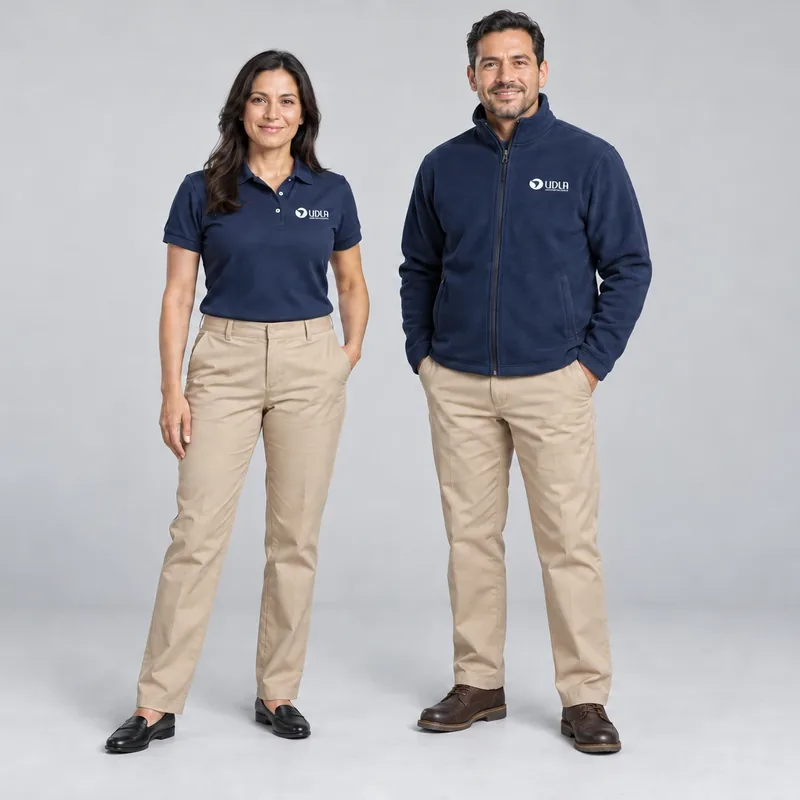
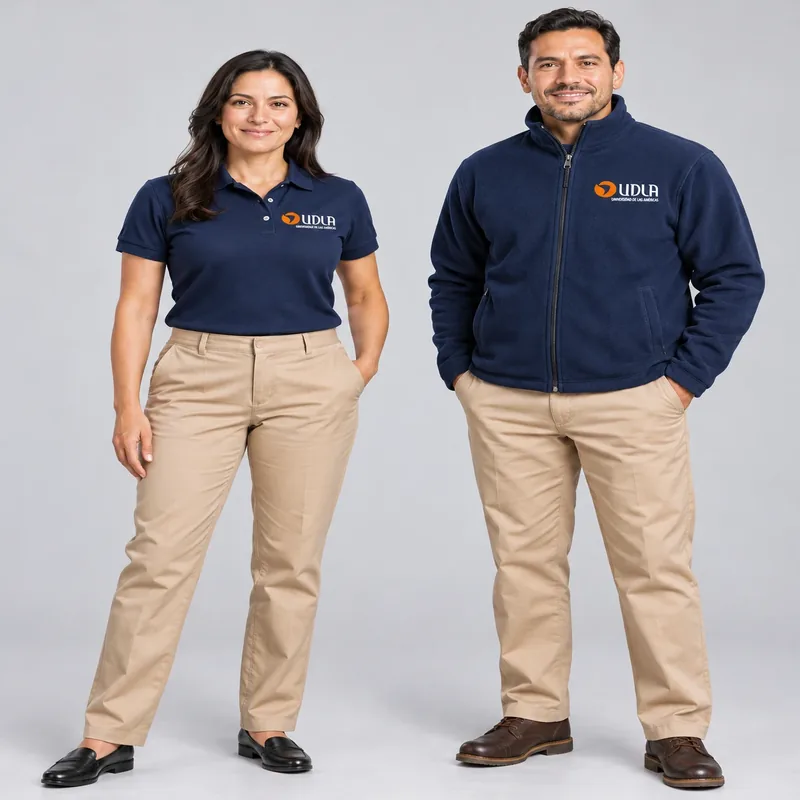
Ajustes según feedback del cliente (hoja 09-11)
- Cifras cerradas: 30+ clientes y 25+ marcas (Inicio y Nosotros)
- Nuevas fotos UDLA con el logo a color en portada y línea Universidades
- Nombre de marca como Kadöl / KADÖL en textos, títulos y metadatos
- Agrega Chanel al carrusel de clientes
- Logo de Kadöl y nombre como marca de agua de fondo en el footer

diff --git a/index.html b/index.html
@@ -3,13 +3,13 @@
 <head>
   <meta charset="UTF-8">
   <meta name="viewport" content="width=device-width, initial-scale=1">
-  <title>Kadol | Uniformes, ropa de trabajo y EPP para empresas e instituciones</title>
+  <title>Kadöl | Uniformes, ropa de trabajo y EPP para empresas e instituciones</title>
   <meta name="description" content="Vestimos y equipamos a empresas públicas y privadas, instituciones, colegios, universidades y centros de salud. Comparamos proveedores y te entregamos una propuesta con precio y plazo validados.">
   <link rel="canonical" href="https://kadoluniformes.cl/">
   <meta property="og:type" content="website">
   <meta property="og:locale" content="es_CL">
-  <meta property="og:site_name" content="Kadol">
-  <meta property="og:title" content="Kadol | Uniformes, ropa de trabajo y EPP para empresas e instituciones">
+  <meta property="og:site_name" content="Kadöl">
+  <meta property="og:title" content="Kadöl | Uniformes, ropa de trabajo y EPP para empresas e instituciones">
   <meta property="og:description" content="Vestimos y equipamos a empresas públicas y privadas, instituciones, colegios, universidades y centros de salud. Comparamos proveedores y te entregamos una propuesta con precio y plazo validados.">
   <meta property="og:url" content="https://kadoluniformes.cl/">
   <meta property="og:image" content="https://kadoluniformes.cl/assets/img/og-kadol.jpg">
@@ -20,14 +20,14 @@
   <link href="https://fonts.googleapis.com/css2?family=Archivo:wdth,wght@100..125,400..800&amp;display=swap" rel="stylesheet">
   <link rel="stylesheet" href="assets/css/site.css">
   <script type="application/ld+json">
-  {"@context":"https://schema.org","@type":"Organization","name":"Kadol SpA","url":"https://kadoluniformes.cl/","email":"contacto@kadol.cl","sameAs":["https://www.instagram.com/kadol_spa/"],"foundingDate":"2019","address":{"@type":"PostalAddress","addressLocality":"Santiago","addressCountry":"CL"},"description":"Uniformes corporativos, ropa de trabajo, calzado y EPP para empresas e instituciones en Chile."}
+  {"@context":"https://schema.org","@type":"Organization","name":"Kadöl SpA","alternateName":"Kadol","url":"https://kadoluniformes.cl/","email":"contacto@kadol.cl","sameAs":["https://www.instagram.com/kadol_spa/"],"foundingDate":"2019","address":{"@type":"PostalAddress","addressLocality":"Santiago","addressCountry":"CL"},"description":"Uniformes corporativos, ropa de trabajo, calzado y EPP para empresas e instituciones en Chile."}
   </script>
 </head>
 <body>
   <header class="site-header">
     <div class="wrap">
-      <a href="./" class="brand" aria-label="Kadol, inicio">
-        <span class="wordmark">KADOL</span>
+      <a href="./" class="brand" aria-label="Kadöl, inicio">
+        <span class="wordmark">KADÖL</span>
         <span class="brand-desc">Uniformes, ropa de trabajo y EPP<br>para empresas e instituciones</span>
       </a>
       <nav class="nav" aria-label="Principal">
@@ -59,8 +59,8 @@
         <ul class="facts">
           <li><strong>2019</strong><span>Año de fundación</span></li>
           <li><strong>30+</strong><span>Años de oficio en el rubro</span></li>
-          <li><strong>32</strong><span>Empresas e instituciones clientes</span></li>
-          <li><strong>23</strong><span>Marcas con las que trabajamos</span></li>
+          <li><strong>30+</strong><span>Empresas e instituciones clientes</span></li>
+          <li><strong>25+</strong><span>Marcas con las que trabajamos</span></li>
         </ul>
       </div>
     </section>
@@ -76,10 +76,10 @@
             <div class="marquee-set" aria-hidden="true"><div class="logo-card"><img src="assets/logos-clientes/pa.png" alt="" decoding="async"></div><div class="logo-card"><img src="assets/logos-clientes/autopista-central.png" alt="" decoding="async"></div><div class="logo-card"><img src="assets/logos-clientes/santa-ema.png" alt="" decoding="async"></div><div class="logo-card"><img src="assets/logos-clientes/aiep.png" alt="" decoding="async"></div><div class="logo-card"><img src="assets/logos-clientes/acer.png" alt="" decoding="async"></div><div class="logo-card"><img src="assets/logos-clientes/abastible.png" alt="" decoding="async"></div><div class="logo-card"><img src="assets/logos-clientes/asus.png" alt="" decoding="async"></div><div class="logo-card"><img src="assets/logos-clientes/autokas.png" alt="" decoding="async"></div><div class="logo-card"><img src="assets/logos-clientes/cinepolis.png" alt="" decoding="async"></div><div class="logo-card"><img src="assets/logos-clientes/cruz-andes.png" alt="" decoding="async"></div><div class="logo-card"><img src="assets/logos-clientes/fch.png" alt="" decoding="async"></div><div class="logo-card"><img src="assets/logos-clientes/henkel.png" alt="" decoding="async"></div><div class="logo-card"><img src="assets/logos-clientes/plazalyon.png" alt="" decoding="async"></div><div class="logo-card"><img src="assets/logos-clientes/rindegastos.png" alt="" decoding="async"></div><div class="logo-card"><img src="assets/logos-clientes/sofruco.png" alt="" decoding="async"></div><div class="logo-card"><img src="assets/logos-clientes/vinalaros.png" alt="" decoding="async"></div></div>
           </div>
         </div>
-        <div class="marquee-row" style="--dur:77.0s">
+        <div class="marquee-row" style="--dur:81.8s">
           <div class="marquee-track">
-            <div class="marquee-set"><div class="logo-card"><img src="assets/logos-clientes/wintec.png" alt="Wintec" decoding="async"></div><div class="logo-card"><img src="assets/logos-clientes/viaschile.png" alt="Vías Chile" decoding="async"></div><div class="logo-card"><img src="assets/logos-clientes/autopista-aconcagua.png" alt="Autopista Nueva Aconcagua" decoding="async"></div><div class="logo-card"><img src="assets/logos-clientes/udla.png" alt="UDLA" decoding="async"></div><div class="logo-card"><img src="assets/logos-clientes/unab.png" alt="UNAB" decoding="async"></div><div class="logo-card"><img src="assets/logos-clientes/kapsch.png" alt="Kapsch" decoding="async"></div><div class="logo-card"><img src="assets/logos-clientes/colegio-abadia.png" alt="Colegio La Abadía" decoding="async"></div><div class="logo-card"><img src="assets/logos-clientes/28.png" alt="Altimec" decoding="async"></div><div class="logo-card"><img src="assets/logos-clientes/bekron.png" alt="Bekron" decoding="async"></div><div class="logo-card"><img src="assets/logos-clientes/citron.png" alt="Citroën" decoding="async"></div><div class="logo-card"><img src="assets/logos-clientes/diazol.png" alt="Diazol" decoding="async"></div><div class="logo-card"><img src="assets/logos-clientes/fundacionpaula.png" alt="Fundación Paula" decoding="async"></div><div class="logo-card"><img src="assets/logos-clientes/netgroup.png" alt="Netgroup" decoding="async"></div><div class="logo-card"><img src="assets/logos-clientes/portia.png" alt="Portia" decoding="async"></div><div class="logo-card"><img src="assets/logos-clientes/shopic.png" alt="Shopic" decoding="async"></div><div class="logo-card"><img src="assets/logos-clientes/uvm.png" alt="UVM" decoding="async"></div></div>
-            <div class="marquee-set" aria-hidden="true"><div class="logo-card"><img src="assets/logos-clientes/wintec.png" alt="" decoding="async"></div><div class="logo-card"><img src="assets/logos-clientes/viaschile.png" alt="" decoding="async"></div><div class="logo-card"><img src="assets/logos-clientes/autopista-aconcagua.png" alt="" decoding="async"></div><div class="logo-card"><img src="assets/logos-clientes/udla.png" alt="" decoding="async"></div><div class="logo-card"><img src="assets/logos-clientes/unab.png" alt="" decoding="async"></div><div class="logo-card"><img src="assets/logos-clientes/kapsch.png" alt="" decoding="async"></div><div class="logo-card"><img src="assets/logos-clientes/colegio-abadia.png" alt="" decoding="async"></div><div class="logo-card"><img src="assets/logos-clientes/28.png" alt="" decoding="async"></div><div class="logo-card"><img src="assets/logos-clientes/bekron.png" alt="" decoding="async"></div><div class="logo-card"><img src="assets/logos-clientes/citron.png" alt="" decoding="async"></div><div class="logo-card"><img src="assets/logos-clientes/diazol.png" alt="" decoding="async"></div><div class="logo-card"><img src="assets/logos-clientes/fundacionpaula.png" alt="" decoding="async"></div><div class="logo-card"><img src="assets/logos-clientes/netgroup.png" alt="" decoding="async"></div><div class="logo-card"><img src="assets/logos-clientes/portia.png" alt="" decoding="async"></div><div class="logo-card"><img src="assets/logos-clientes/shopic.png" alt="" decoding="async"></div><div class="logo-card"><img src="assets/logos-clientes/uvm.png" alt="" decoding="async"></div></div>
+            <div class="marquee-set"><div class="logo-card"><img src="assets/logos-clientes/wintec.png" alt="Wintec" decoding="async"></div><div class="logo-card"><img src="assets/logos-clientes/viaschile.png" alt="Vías Chile" decoding="async"></div><div class="logo-card"><img src="assets/logos-clientes/autopista-aconcagua.png" alt="Autopista Nueva Aconcagua" decoding="async"></div><div class="logo-card"><img src="assets/logos-clientes/udla.png" alt="UDLA" decoding="async"></div><div class="logo-card"><img src="assets/logos-clientes/unab.png" alt="UNAB" decoding="async"></div><div class="logo-card"><img src="assets/logos-clientes/kapsch.png" alt="Kapsch" decoding="async"></div><div class="logo-card"><img src="assets/logos-clientes/colegio-abadia.png" alt="Colegio La Abadía" decoding="async"></div><div class="logo-card"><img src="assets/logos-clientes/28.png" alt="Altimec" decoding="async"></div><div class="logo-card"><img src="assets/logos-clientes/bekron.png" alt="Bekron" decoding="async"></div><div class="logo-card"><img src="assets/logos-clientes/citron.png" alt="Citroën" decoding="async"></div><div class="logo-card"><img src="assets/logos-clientes/diazol.png" alt="Diazol" decoding="async"></div><div class="logo-card"><img src="assets/logos-clientes/fundacionpaula.png" alt="Fundación Paula" decoding="async"></div><div class="logo-card"><img src="assets/logos-clientes/netgroup.png" alt="Netgroup" decoding="async"></div><div class="logo-card"><img src="assets/logos-clientes/portia.png" alt="Portia" decoding="async"></div><div class="logo-card"><img src="assets/logos-clientes/shopic.png" alt="Shopic" decoding="async"></div><div class="logo-card"><img src="assets/logos-clientes/uvm.png" alt="UVM" decoding="async"></div><div class="logo-card"><img src="assets/logos-clientes/chanel.png" alt="Chanel" decoding="async"></div></div>
+            <div class="marquee-set" aria-hidden="true"><div class="logo-card"><img src="assets/logos-clientes/wintec.png" alt="" decoding="async"></div><div class="logo-card"><img src="assets/logos-clientes/viaschile.png" alt="" decoding="async"></div><div class="logo-card"><img src="assets/logos-clientes/autopista-aconcagua.png" alt="" decoding="async"></div><div class="logo-card"><img src="assets/logos-clientes/udla.png" alt="" decoding="async"></div><div class="logo-card"><img src="assets/logos-clientes/unab.png" alt="" decoding="async"></div><div class="logo-card"><img src="assets/logos-clientes/kapsch.png" alt="" decoding="async"></div><div class="logo-card"><img src="assets/logos-clientes/colegio-abadia.png" alt="" decoding="async"></div><div class="logo-card"><img src="assets/logos-clientes/28.png" alt="" decoding="async"></div><div class="logo-card"><img src="assets/logos-clientes/bekron.png" alt="" decoding="async"></div><div class="logo-card"><img src="assets/logos-clientes/citron.png" alt="" decoding="async"></div><div class="logo-card"><img src="assets/logos-clientes/diazol.png" alt="" decoding="async"></div><div class="logo-card"><img src="assets/logos-clientes/fundacionpaula.png" alt="" decoding="async"></div><div class="logo-card"><img src="assets/logos-clientes/netgroup.png" alt="" decoding="async"></div><div class="logo-card"><img src="assets/logos-clientes/portia.png" alt="" decoding="async"></div><div class="logo-card"><img src="assets/logos-clientes/shopic.png" alt="" decoding="async"></div><div class="logo-card"><img src="assets/logos-clientes/uvm.png" alt="" decoding="async"></div><div class="logo-card"><img src="assets/logos-clientes/chanel.png" alt="" decoding="async"></div></div>
           </div>
         </div>
       </div>
@@ -242,7 +242,7 @@
   <footer class="site-footer">
     <div class="wrap footer-grid">
       <div class="footer-about">
-        <a href="./" class="wordmark">KADOL</a>
+        <a href="./" class="wordmark">KADÖL</a>
         <p>Uniformes, ropa de trabajo, calzado y EPP para empresas públicas y privadas, instituciones, colegios, universidades y centros de salud.</p>
       </div>
       <nav aria-label="Sitio">
@@ -265,12 +265,12 @@
       <div>
         <p class="footer-title">Síguenos</p>
         <div class="social">
-          <a href="https://www.instagram.com/kadol_spa/" target="_blank" rel="noopener" aria-label="Instagram de Kadol"><svg class="icon" viewBox="0 0 24 24" fill="none" stroke="currentColor" stroke-width="1.8" stroke-linecap="round" stroke-linejoin="round" aria-hidden="true"><rect x="3" y="3" width="18" height="18" rx="5"/><circle cx="12" cy="12" r="4.2"/><circle cx="17.4" cy="6.6" r="1" fill="currentColor" stroke="none"/></svg></a>
-          <a href="mailto:contacto@kadol.cl" aria-label="Correo de Kadol"><svg class="icon" viewBox="0 0 24 24" fill="none" stroke="currentColor" stroke-width="1.8" stroke-linecap="round" stroke-linejoin="round" aria-hidden="true"><rect x="3" y="5" width="18" height="14" rx="2"/><path d="m3 7 9 6 9-6"/></svg></a>
+          <a href="https://www.instagram.com/kadol_spa/" target="_blank" rel="noopener" aria-label="Instagram de Kadöl"><svg class="icon" viewBox="0 0 24 24" fill="none" stroke="currentColor" stroke-width="1.8" stroke-linecap="round" stroke-linejoin="round" aria-hidden="true"><rect x="3" y="3" width="18" height="18" rx="5"/><circle cx="12" cy="12" r="4.2"/><circle cx="17.4" cy="6.6" r="1" fill="currentColor" stroke="none"/></svg></a>
+          <a href="mailto:contacto@kadol.cl" aria-label="Correo de Kadöl"><svg class="icon" viewBox="0 0 24 24" fill="none" stroke="currentColor" stroke-width="1.8" stroke-linecap="round" stroke-linejoin="round" aria-hidden="true"><rect x="3" y="5" width="18" height="14" rx="2"/><path d="m3 7 9 6 9-6"/></svg></a>
         </div>
       </div>
     </div>
-    <div class="wrap footer-bottom">&copy; <span data-year>2026</span> Kadol SpA. Todos los derechos reservados.</div>
+    <div class="wrap footer-bottom">&copy; <span data-year>2026</span> Kadöl SpA. Todos los derechos reservados.</div>
   </footer>
 
   <script>

diff --git a/nosotros.html b/nosotros.html
@@ -3,14 +3,14 @@
 <head>
   <meta charset="UTF-8">
   <meta name="viewport" content="width=device-width, initial-scale=1">
-  <title>Nosotros | Kadol</title>
-  <meta name="description" content="Kadol nace en 2019 de la mano de Andrés Carvajal y Jorge Olea, con más de 30 años de experiencia en uniformes, ropa de trabajo y EPP para empresas e instituciones.">
+  <title>Nosotros | Kadöl</title>
+  <meta name="description" content="Kadöl nace en 2019 de la mano de Andrés Carvajal y Jorge Olea, con más de 30 años de experiencia en uniformes, ropa de trabajo y EPP para empresas e instituciones.">
   <link rel="canonical" href="https://kadoluniformes.cl/nosotros.html">
   <meta property="og:type" content="website">
   <meta property="og:locale" content="es_CL">
-  <meta property="og:site_name" content="Kadol">
-  <meta property="og:title" content="Nosotros | Kadol">
-  <meta property="og:description" content="Kadol nace en 2019 de la mano de Andrés Carvajal y Jorge Olea, con más de 30 años de experiencia en uniformes, ropa de trabajo y EPP para empresas e instituciones.">
+  <meta property="og:site_name" content="Kadöl">
+  <meta property="og:title" content="Nosotros | Kadöl">
+  <meta property="og:description" content="Kadöl nace en 2019 de la mano de Andrés Carvajal y Jorge Olea, con más de 30 años de experiencia en uniformes, ropa de trabajo y EPP para empresas e instituciones.">
   <meta property="og:url" content="https://kadoluniformes.cl/nosotros.html">
   <meta property="og:image" content="https://kadoluniformes.cl/assets/img/og-kadol.jpg">
   <meta name="theme-color" content="#f2f0eb">
@@ -23,8 +23,8 @@
 <body>
   <header class="site-header">
     <div class="wrap">
-      <a href="./" class="brand" aria-label="Kadol, inicio">
-        <span class="wordmark">KADOL</span>
+      <a href="./" class="brand" aria-label="Kadöl, inicio">
+        <span class="wordmark">KADÖL</span>
         <span class="brand-desc">Uniformes, ropa de trabajo y EPP<br>para empresas e instituciones</span>
       </a>
       <nav class="nav" aria-label="Principal">
@@ -48,7 +48,7 @@
         <div class="sec-head"><span class="kicker">Nuestra historia</span></div>
         <div class="story">
           <div>
-            <p class="story-lead">Kadol fue fundada en 2019 por Andrés Carvajal y Jorge Olea, dos compañeros de trabajo que decidieron unir fuerzas.</p>
+            <p class="story-lead">Kadöl fue fundada en 2019 por Andrés Carvajal y Jorge Olea, dos compañeros de trabajo que decidieron unir fuerzas.</p>
             <div class="story-text">
               <p>Gracias a su propia trayectoria, descubrieron que los trabajadores merecen ropa que, además de ser resistente, brinde comodidad y seguridad real.</p>
               <p>Con un respaldo de 30 años de experiencia en el sector, la empresa nace para acompañar a quienes construyen y se esfuerzan día a día, con prendas pensadas para los retos reales de cada jornada laboral.</p>
@@ -56,7 +56,7 @@
           </div>
           <ul class="ledger">
             <li><strong>30+</strong><h3>Años de oficio</h3><p>Conocemos el uso real de cada prenda en faena, planta, oficina y atención de público.</p></li>
-            <li><strong>23</strong><h3>Marcas y proveedores</h3><p>Comparamos alternativas para darte la mejor relación entre calidad, precio y volumen.</p></li>
+            <li><strong>25+</strong><h3>Marcas y proveedores</h3><p>Comparamos alternativas para darte la mejor relación entre calidad, precio y volumen.</p></li>
             <li><strong>1</strong><h3>Interlocutor</h3><p>Una persona te acompaña desde la cotización hasta la entrega y la reposición.</p></li>
           </ul>
         </div>
@@ -67,7 +67,7 @@
       <div class="wrap">
         <div class="sec-head">
           <span class="kicker">Casos de éxito</span>
-          <h2>Equipos que ya visten Kadol</h2>
+          <h2>Equipos que ya visten Kadöl</h2>
         </div>
         <ul class="cases-grid">
           <li><img src="assets/img/casos/udla.webp" alt="UDLA, educación: más de 800 prendas y productos entregados. Vestuario corporativo, calzado, parkas, pantalones, poleras, delantales, cotonas y EPP para todo el personal de sus sedes a nivel nacional." width="578" height="386" loading="lazy" decoding="async"></li>
@@ -114,7 +114,7 @@
           <li><button type="button" data-full="assets/img/trabajos/preisler.webp" aria-label="Ampliar: Polo blanco bordado Preisler Automóviles"><img src="assets/img/trabajos/preisler-600.webp" srcset="assets/img/trabajos/preisler-600.webp 600w, assets/img/trabajos/preisler.webp 1200w" sizes="(max-width: 640px) 50vw, (max-width: 1024px) 33vw, 310px" alt="Polo blanco bordado Preisler Automóviles" width="600" height="400" loading="lazy" decoding="async"></button></li>
           <li><button type="button" data-full="assets/img/trabajos/fch-negro.webp" aria-label="Ampliar: Polo negro bordado Fundación Chile"><img src="assets/img/trabajos/fch-negro-600.webp" srcset="assets/img/trabajos/fch-negro-600.webp 600w, assets/img/trabajos/fch-negro.webp 1200w" sizes="(max-width: 640px) 50vw, (max-width: 1024px) 33vw, 310px" alt="Polo negro bordado Fundación Chile" width="600" height="400" loading="lazy" decoding="async"></button></li>
           </ul>
-          <figcaption>Imágenes referenciales de prendas bordadas por Kadol. Toca una foto para ampliarla.</figcaption>
+          <figcaption>Imágenes referenciales de prendas bordadas por Kadöl. Toca una foto para ampliarla.</figcaption>
         </figure>
       </div>
     </section>
@@ -137,7 +137,7 @@
   <footer class="site-footer">
     <div class="wrap footer-grid">
       <div class="footer-about">
-        <a href="./" class="wordmark">KADOL</a>
+        <a href="./" class="wordmark">KADÖL</a>
         <p>Uniformes, ropa de trabajo, calzado y EPP para empresas públicas y privadas, instituciones, colegios, universidades y centros de salud.</p>
       </div>
       <nav aria-label="Sitio">
@@ -160,12 +160,12 @@
       <div>
         <p class="footer-title">Síguenos</p>
         <div class="social">
-          <a href="https://www.instagram.com/kadol_spa/" target="_blank" rel="noopener" aria-label="Instagram de Kadol"><svg class="icon" viewBox="0 0 24 24" fill="none" stroke="currentColor" stroke-width="1.8" stroke-linecap="round" stroke-linejoin="round" aria-hidden="true"><rect x="3" y="3" width="18" height="18" rx="5"/><circle cx="12" cy="12" r="4.2"/><circle cx="17.4" cy="6.6" r="1" fill="currentColor" stroke="none"/></svg></a>
-          <a href="mailto:contacto@kadol.cl" aria-label="Correo de Kadol"><svg class="icon" viewBox="0 0 24 24" fill="none" stroke="currentColor" stroke-width="1.8" stroke-linecap="round" stroke-linejoin="round" aria-hidden="true"><rect x="3" y="5" width="18" height="14" rx="2"/><path d="m3 7 9 6 9-6"/></svg></a>
+          <a href="https://www.instagram.com/kadol_spa/" target="_blank" rel="noopener" aria-label="Instagram de Kadöl"><svg class="icon" viewBox="0 0 24 24" fill="none" stroke="currentColor" stroke-width="1.8" stroke-linecap="round" stroke-linejoin="round" aria-hidden="true"><rect x="3" y="3" width="18" height="18" rx="5"/><circle cx="12" cy="12" r="4.2"/><circle cx="17.4" cy="6.6" r="1" fill="currentColor" stroke="none"/></svg></a>
+          <a href="mailto:contacto@kadol.cl" aria-label="Correo de Kadöl"><svg class="icon" viewBox="0 0 24 24" fill="none" stroke="currentColor" stroke-width="1.8" stroke-linecap="round" stroke-linejoin="round" aria-hidden="true"><rect x="3" y="5" width="18" height="14" rx="2"/><path d="m3 7 9 6 9-6"/></svg></a>
         </div>
       </div>
     </div>
-    <div class="wrap footer-bottom">&copy; <span data-year>2026</span> Kadol SpA. Todos los derechos reservados.</div>
+    <div class="wrap footer-bottom">&copy; <span data-year>2026</span> Kadöl SpA. Todos los derechos reservados.</div>
   </footer>
 
   <script>document.querySelectorAll('[data-year]').forEach(function (n) { n.textContent = new Date().getFullYear(); });</script>

diff --git a/contacto.html b/contacto.html
@@ -3,13 +3,13 @@
 <head>
   <meta charset="UTF-8">
   <meta name="viewport" content="width=device-width, initial-scale=1">
-  <title>Contacto | Kadol</title>
+  <title>Contacto | Kadöl</title>
   <meta name="description" content="Déjanos tu nombre, teléfono y correo y te contactamos para cotizar uniformes, ropa de trabajo, calzado o EPP para tu empresa o institución.">
   <link rel="canonical" href="https://kadoluniformes.cl/contacto.html">
   <meta property="og:type" content="website">
   <meta property="og:locale" content="es_CL">
-  <meta property="og:site_name" content="Kadol">
-  <meta property="og:title" content="Contacto | Kadol">
+  <meta property="og:site_name" content="Kadöl">
+  <meta property="og:title" content="Contacto | Kadöl">
   <meta property="og:description" content="Déjanos tu nombre, teléfono y correo y te contactamos para cotizar uniformes, ropa de trabajo, calzado o EPP para tu empresa o institución.">
   <meta property="og:url" content="https://kadoluniformes.cl/contacto.html">
   <meta property="og:image" content="https://kadoluniformes.cl/assets/img/og-kadol.jpg">
@@ -23,8 +23,8 @@
 <body>
   <header class="site-header">
     <div class="wrap">
-      <a href="./" class="brand" aria-label="Kadol, inicio">
-        <span class="wordmark">KADOL</span>
+      <a href="./" class="brand" aria-label="Kadöl, inicio">
+        <span class="wordmark">KADÖL</span>
         <span class="brand-desc">Uniformes, ropa de trabajo y EPP<br>para empresas e instituciones</span>
       </a>
       <nav class="nav" aria-label="Principal">
@@ -94,7 +94,7 @@
   <footer class="site-footer">
     <div class="wrap footer-grid">
       <div class="footer-about">
-        <a href="./" class="wordmark">KADOL</a>
+        <a href="./" class="wordmark">KADÖL</a>
         <p>Uniformes, ropa de trabajo, calzado y EPP para empresas públicas y privadas, instituciones, colegios, universidades y centros de salud.</p>
       </div>
       <nav aria-label="Sitio">
@@ -117,12 +117,12 @@
       <div>
         <p class="footer-title">Síguenos</p>
         <div class="social">
-          <a href="https://www.instagram.com/kadol_spa/" target="_blank" rel="noopener" aria-label="Instagram de Kadol"><svg class="icon" viewBox="0 0 24 24" fill="none" stroke="currentColor" stroke-width="1.8" stroke-linecap="round" stroke-linejoin="round" aria-hidden="true"><rect x="3" y="3" width="18" height="18" rx="5"/><circle cx="12" cy="12" r="4.2"/><circle cx="17.4" cy="6.6" r="1" fill="currentColor" stroke="none"/></svg></a>
-          <a href="mailto:contacto@kadol.cl" aria-label="Correo de Kadol"><svg class="icon" viewBox="0 0 24 24" fill="none" stroke="currentColor" stroke-width="1.8" stroke-linecap="round" stroke-linejoin="round" aria-hidden="true"><rect x="3" y="5" width="18" height="14" rx="2"/><path d="m3 7 9 6 9-6"/></svg></a>
+          <a href="https://www.instagram.com/kadol_spa/" target="_blank" rel="noopener" aria-label="Instagram de Kadöl"><svg class="icon" viewBox="0 0 24 24" fill="none" stroke="currentColor" stroke-width="1.8" stroke-linecap="round" stroke-linejoin="round" aria-hidden="true"><rect x="3" y="3" width="18" height="18" rx="5"/><circle cx="12" cy="12" r="4.2"/><circle cx="17.4" cy="6.6" r="1" fill="currentColor" stroke="none"/></svg></a>
+          <a href="mailto:contacto@kadol.cl" aria-label="Correo de Kadöl"><svg class="icon" viewBox="0 0 24 24" fill="none" stroke="currentColor" stroke-width="1.8" stroke-linecap="round" stroke-linejoin="round" aria-hidden="true"><rect x="3" y="5" width="18" height="14" rx="2"/><path d="m3 7 9 6 9-6"/></svg></a>
         </div>
       </div>
     </div>
-    <div class="wrap footer-bottom">&copy; <span data-year>2026</span> Kadol SpA. Todos los derechos reservados.</div>
+    <div class="wrap footer-bottom">&copy; <span data-year>2026</span> Kadöl SpA. Todos los derechos reservados.</div>
   </footer>
 
   <script>document.querySelectorAll('[data-year]').forEach(function (n) { n.textContent = new Date().getFullYear(); });</script>

diff --git a/assets/css/site.css b/assets/css/site.css
@@ -270,7 +270,33 @@ h1, h2, h3, h4 { color: var(--ink); font-weight: 700; letter-spacing: -0.025em; 
 .lightbox-close:hover { background: var(--white); color: var(--ink); }
 
 /* Footer */
-.site-footer { background: var(--ink); color: #a3adb5; font-size: 15px; }
+.site-footer { position: relative; isolation: isolate; overflow: hidden; background: var(--ink); color: #a3adb5; font-size: 15px; }
+/* Logo y nombre de Kadöl como marca de agua de fondo */
+.site-footer::before,
+.site-footer::after { position: absolute; z-index: -1; pointer-events: none; }
+.site-footer::before {
+  content: "";
+  right: max(var(--gutter), calc((100% - var(--wrap)) / 2 + var(--gutter)));
+  bottom: -24px;
+  width: 316px;
+  aspect-ratio: 544 / 624;
+  background: url("../img/logo-kadol.svg") no-repeat center / contain;
+  opacity: .07;
+}
+.site-footer::after {
+  content: "KAD\00D6L";
+  content: "KAD\00D6L" / "";
+  right: max(var(--gutter), calc((100% - var(--wrap)) / 2 + var(--gutter)));
+  bottom: -0.2em;
+  font-size: clamp(88px, 13vw, 184px);
+  font-weight: 800;
+  font-stretch: 125%;
+  letter-spacing: -0.02em;
+  line-height: 1;
+  color: #fff;
+  opacity: .04;
+  user-select: none;
+}
 .footer-grid { display: grid; grid-template-columns: 5fr 2fr 3fr 2fr; gap: 40px; padding-top: 64px; padding-bottom: 56px; }
 .footer-grid .wordmark { color: var(--white); }
 .footer-about p { margin-top: 16px; max-width: 340px; }
@@ -291,6 +317,7 @@ h1, h2, h3, h4 { color: var(--ink); font-weight: 700; letter-spacing: -0.025em; 
   .cover-grid { gap: 40px; }
   .brand-grid { --cols: 5; }
   .footer-grid { grid-template-columns: 1fr 1fr; }
+  .site-footer::after { bottom: 54px; }
   .cases-grid { --cols: 2; }
   .works-grid { grid-template-columns: repeat(3, minmax(0, 1fr)); }
 }
@@ -346,6 +373,8 @@ h1, h2, h3, h4 { color: var(--ink); font-weight: 700; letter-spacing: -0.025em; 
   .contact { padding-bottom: 72px; gap: 48px; }
   .form { grid-template-columns: 1fr; }
   .footer-grid { grid-template-columns: 1fr; gap: 32px; padding-top: 48px; padding-bottom: 32px; }
+  .site-footer::before { width: min(300px, 78vw); bottom: 40px; }
+  .site-footer::after { font-size: 21vw; bottom: 54px; }
 }
 @media (max-width: 380px) {
   .wordmark { font-size: 20px; }

diff --git a/cotizacion.html b/cotizacion.html
@@ -2,7 +2,7 @@
 <html lang="es-CL">
 <head>
   <meta charset="UTF-8">
-  <title>Cotización | Kadol</title>
+  <title>Cotización | Kadöl</title>
   <meta name="robots" content="noindex">
   <link rel="canonical" href="https://kadoluniformes.cl/contacto.html">
   <meta http-equiv="refresh" content="0; url=contacto.html">

diff --git a/productos.html b/productos.html
@@ -2,7 +2,7 @@
 <html lang="es-CL">
 <head>
   <meta charset="UTF-8">
-  <title>Productos | Kadol</title>
+  <title>Productos | Kadöl</title>
   <meta name="robots" content="noindex">
   <link rel="canonical" href="https://kadoluniformes.cl/">
   <meta http-equiv="refresh" content="0; url=./#lineas">
